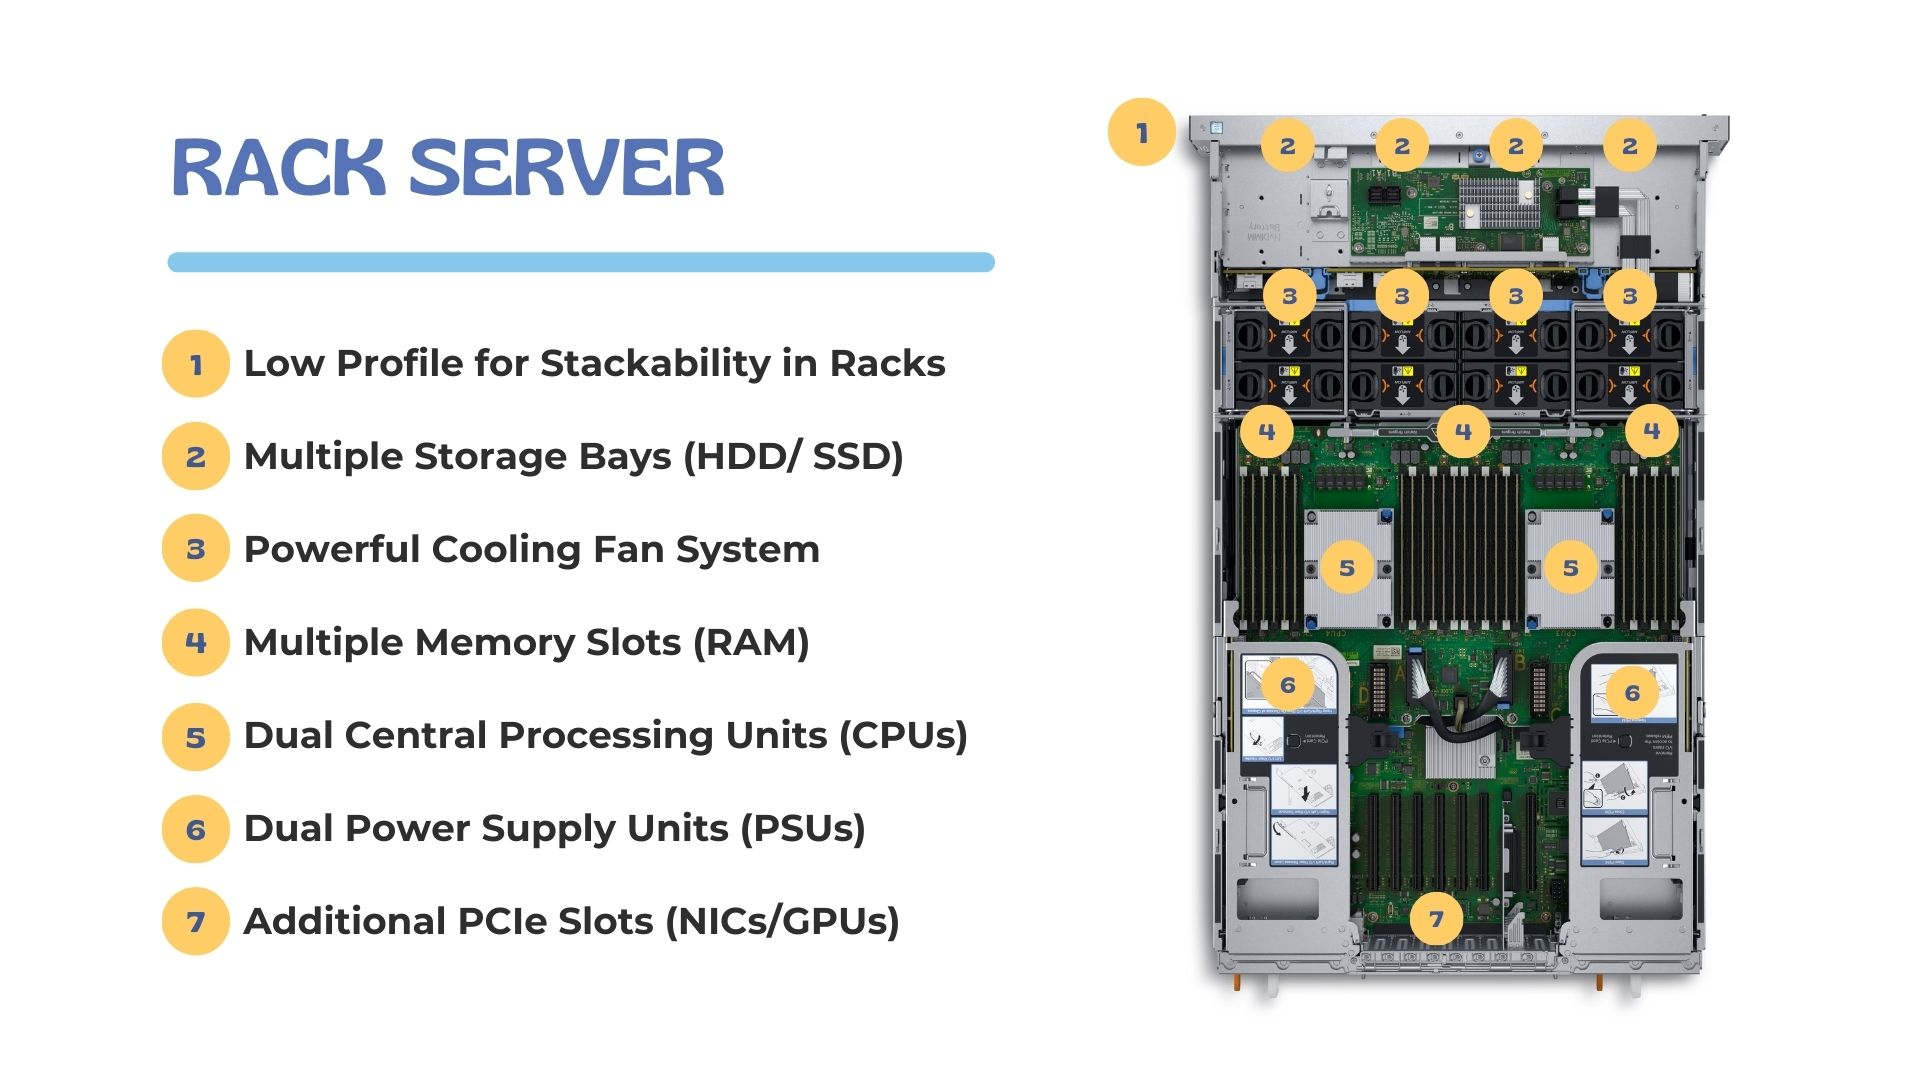
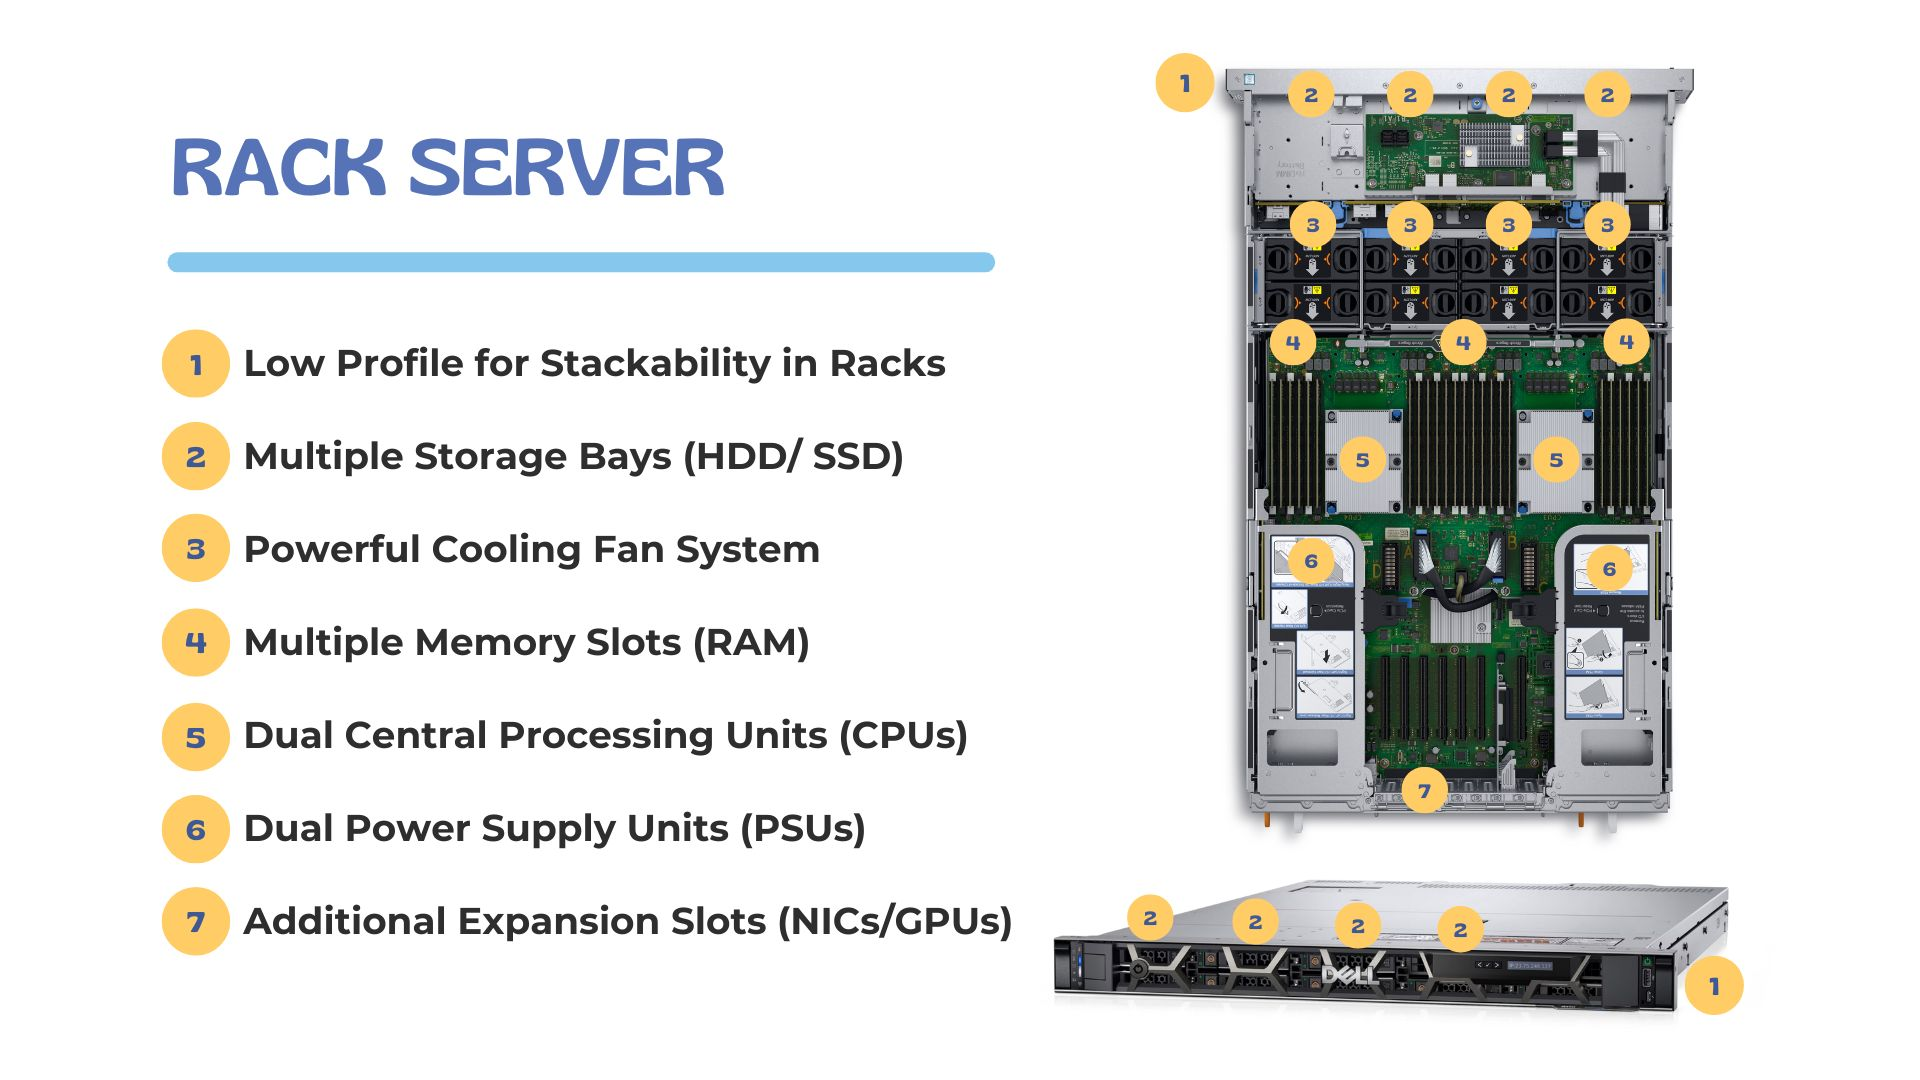
changes to CP-CV01

Changed region(s): [[0.25, 0.0306, 0.9062, 0.9472], [0.0938, 0.6722, 0.125, 0.7028]]

diff --git a/courses/CP-CV01/index.htm b/courses/CP-CV01/index.htm
@@ -174,15 +174,16 @@
             <p>A rack server is a type of computer server designed to be mounted in a standardized server rack. These
               servers are optimized for space efficiency and are commonly used in data centers to maximize the
               utilization of available space.</p>
+            <p>On the right you have two views of the rack server.  A birds-eye view and a front view.</p>
             <p>Here are some key features:</p>
             <ul class="no-bullets">
               <li>1. Low Profile for Stackability.</li>
-              <li>2. Multiple Storage Bays (HDD/ SSD) 160TB.</li>
+              <li>2. Multiple Storage Bays (HDD/ SSD).</li>
               <li>3. Powerful Cooling Fan System.</li>
-              <li>4. Multiple Memory Slots (RAM) 2TB.</li>
-              <li>5. Dual Central Processing Units (CPUs) 256 cores.</li>
+              <li>4. Multiple Memory Slots (RAM).</li>
+              <li>5. Dual Central Processing Units (CPUs).</li>
               <li>6. Dual Power Supply Units (PSUs).</li>
-              <li>7. Additional PCIe Slots (NICs/GPUs).</li>
+              <li>7. Additional Expansion Slots (NICs/GPUs).</li>
             </ul>
           </section>
 
@@ -191,7 +192,7 @@
 
             <b>Hypervisors</b>
             <p>A hypervisor, also known as a virtual machine monitor (VMM), is software that creates and manages virtual
-              machines (VMs). It acts as a bridge between the physical hardware (rack server) and the virtual environment.
+              machines (VM). It acts as a bridge between the physical hardware (rack server) and the virtual environment.
               Essentially, a hypervisor allows multiple operating systems to run concurrently on a single physical
               server.</p>
 
@@ -206,14 +207,14 @@
 
             <b>Virtual Machines</b>
             <p>A virtual machine (VM) is a software-based emulation of a physical computer system. It operates as if it
-              were a standalone machine, with its own operating system, applications, and network configuration. VMs
+              were a standalone machine, with its own operating system, applications, and network configuration. VM
               rely on a hypervisor to function.</p>
 
             <p>Key characteristics of a virtual machine:</p>
             <ul>
-              <li>Isolation: Each VM operates independently, unaffected by other VMs on the same physical host.</li>
-              <li>Portability: VMs can be easily moved between different physical hosts.</li>
-              <li>Efficiency: Resource sharing among VMs can optimize hardware utilization.</li>
+              <li>Isolation: Each VM operates independently, unaffected by other VM on the same physical host.</li>
+              <li>Portability: VM can be easily moved between different physical hosts.</li>
+              <li>Efficiency: Resource sharing among VM can optimize hardware utilization.</li>
             </ul>
 
             <b>Relationship</b>
@@ -231,26 +232,26 @@
           <section id="section8" class="learnsection">
             <h2>Hypervisor Types</h2>
 
-            <p>Hypervisors are software that create and manage virtual machines (VMs). There are two main types of hypervisors: Type 1 and Type 2.</p>
+            <p>Hypervisors are software that create and manage virtual machines (VM). There are two main types of hypervisors: Type 1 and Type 2.</p>
             
             <b>Type 1 Hypervisor</b>
             <p>A Type 1 hypervisor, also known as a bare-metal hypervisor, runs directly on the physical hardware without an underlying operating system. This provides a more efficient and secure environment for virtual machines.</p>
             
             <p>Examples of Type 1 hypervisors:</p>
             <ul>
-            <li>VMware ESXi</li>
-            <li>Microsoft Hyper-V</li>
-            <li>KVM (Kernel-based Virtual Machine)</li>
+            <li>VMware ESX-i.</li>
+            <li>Microsoft Hyper-V.</li>
+            <li>KVM (Kernel-based Virtual Machine).</li>
             </ul>
             
             <b>Type 2 Hypervisor</b>
-            <p>A Type 2 hypervisor runs as a software application on top of an existing operating system. This approach is often simpler to deploy but can have a performance overhead.  You generally don't see this setup in data centers but normally in home or lab environments at small scale.</p>
+            <p>A Type 2 hypervisor runs as a software application on top of an existing operating system. This approach is often simpler to deploy but can have a performance overhead.  You generally see this setup in development or lab environments at small scale.</p>
             
             <p>Examples of Type 2 hypervisors:</p>
             <ul>
-            <li>Oracle VM VirtualBox</li>
-            <li>Parallels Desktop</li>
-            <li>VMWare Workstation</li>
+            <li>Oracle VM VirtualBox.</li>
+            <li>Parallels Desktop.</li>
+            <li>VMWare Workstation.</li>
             </ul>            
           </section>
 
@@ -341,7 +342,7 @@
                 to manage them through clicks and menus.</li>
               <li>Intuitive navigation: Designed for users with varying technical expertise, offering a simplified
                 experience.</li>
-              <li>Common tasks: Creating, starting, stopping, and deleting VMs; managing storage, networks, and
+              <li>Common tasks: Creating, starting, stopping, and deleting VM; managing storage, networks, and
                 security; monitoring resource utilization.</li>
             </ul>
 
@@ -433,7 +434,7 @@
             <p>Rack servers are optimized for space efficiency and are commonly used in data centers. They are designed to fit into server racks, maximizing space utilization.</p>
             
             <b>Hypervisors and Virtual Machines</b>
-            <p>A hypervisor is software that creates and manages virtual machines (VMs). Virtual machines are software-based emulations of physical computers. Hypervisors enable multiple operating systems to run concurrently on a single physical machine.</p>
+            <p>A hypervisor is software that creates and manages virtual machines (VM). Virtual machines are software-based emulations of physical computers. Hypervisors enable multiple operating systems to run concurrently on a single physical machine.</p>
             
             <b>The Cloud and Its Control Plane</b>
             <p>The cloud is a computing model that delivers IT services, such as software, infrastructure, storage, and databases, over the internet. It is built upon virtualization and software-defined resources.</p>

diff --git a/dashboard.htm b/dashboard.htm
@@ -13,7 +13,7 @@
 </head>
 
 <body>
-    <section class="vh-100" style="background-color: #eee;">
+    <section style="background-color: #eee;">
         <div class="container dashboard h-100">
             <div class="row d-flex justify-content-center align-items-center h-100">
                 <div class="col-12">
@@ -27,7 +27,30 @@
                                         Dashboard</p>
                                 </div>
                             </div>
-                            <div class="row justify-content-center">
+                            <div id="CP" class="row justify-content-center roadmap hide">
+                                <div class="justify-content-center program-block">
+                                    <p class="text-center h3 fw-bold mb-4 mx-1 mx-md-4 mt-0" id="title">Cloud Practitioners</p>
+                                    <div class="row justify-content-center">
+                                        <div class="col-12 col-xxl-2 col-xl-3 col-md-4 col-sm-6 col-xs-12">
+                                            <div class="card">
+                                                <img src="img/course/CP-CV01.jpg" class="card-img-top"
+                                                    alt="Computer Hardware">
+                                                <div class="card-body">
+                                                    <h5 class="card-title">What is the Cloud?</h5>
+                                                    <p class="card-text">Learn about the core bluiding blocks of the cloud and how it works.</p>
+                                                    <div class="text-center">
+                                                        <button type="button"
+                                                            class="btn btn-primary align-items-center start-course"
+                                                            id="CP-CV01">Start
+                                                            Learning</button>
+                                                    </div>
+                                                </div>
+                                            </div>
+                                        </div>
+                                    </div>
+                                </div>
+                            </div>
+                            <div class="row justify-content-center roadmap">
                                 <div class="justify-content-center program-block">
                                     <p class="text-center h3 fw-bold mb-4 mx-1 mx-md-4 mt-0" id="title">IT for Beginners
                                     </p>

diff --git a/js/course.js b/js/course.js
@@ -8,7 +8,7 @@ let currentQuestion = 1;
 let prevLock = true;
 let nextLock = false;
 let max = 0;
-let debug = true;
+let debug = false;
 let defaultvoice = 0;
 var lastId;
 let courseCode = getCourseCode();
@@ -29,32 +29,8 @@ function getCourseCode2(){
 }
 
 
-console.log(getCourseCode2());
-console.log(getCourseCode());
-/*
-let imported;
-
-function fetchJSONData() {
-    fetch("data/data.json")
-        .then((res) => {
-            if (!res.ok) {
-                throw new Error
-                    (`HTTP error! Status: ${res.status}`);
-            }
-            return res.json();
-        })
-        .then((data) => {
-            //if (debug) console.log("data: "+JSON.stringify(data));
-            (imported = data);
-        })
-        .catch ((error) =>
-        console.error("Unable to fetch data:", error));
-    }
-fetchJSONData();
-
-if (debug) console.log("learn: "+JSON.stringify(imported));
-*/
-
+if (debug) console.log(getCourseCode2());
+if (debug) console.log(getCourseCode());
 if (debug) console.log("autoplay: " + autoplay);
 
 start();
@@ -89,7 +65,7 @@ document.querySelector("#play").addEventListener("click", () => {
 
 document.querySelector("#stop").addEventListener("click", () => {
     window.speechSynthesis.cancel();
-    console.log(document.cookie);
+    if (debug) console.log(document.cookie);
 })
 
 document.querySelector("#prev").addEventListener("click", () => {
@@ -181,7 +157,7 @@ function updateNav() {
             document.querySelector("#next").classList.remove("disabled");
         }
     } else {
-        console.log("next lock? " + nextLock + " next question? " + checkAnswerCorrect());
+        if (debug) console.log("next lock? " + nextLock + " next question? " + checkAnswerCorrect());
         if (nextLock) {
             document.querySelector("#next").classList.add("disabled");
         } else {
@@ -285,11 +261,11 @@ function removeTags(str) {
         return false;
     else
         str = str.toString();
-    str = str.replaceAll('</li>', '.');
-    str = str.replaceAll('</b>', '.');
-    str = str.replaceAll('</h2>', '.');
-    str = str.replaceAll('</h3>', '.');
-    str = str.replaceAll('</p>', '.');
+    str = str.replaceAll('</li>', '!.');
+    str = str.replaceAll('</b>', '!.');
+    str = str.replaceAll('</h2>', '!.');
+    str = str.replaceAll('</h3>', '!.');
+    str = str.replaceAll('</p>', '!.');
     // Regular expression to identify HTML tags in
     // the input string. Replacing the identified
     // HTML tag with a null string.

diff --git a/js/dashboard.js b/js/dashboard.js
@@ -1,4 +1,4 @@
-let courses = ["B-CH01", "B-OS01", "B-NB01", "B-SA01", "B-CS01"];
+let courses = ["B-CH01", "B-OS01", "B-NB01", "B-SA01", "B-CS01","CP-CV01"];
 let count = courses.length;
 let cidlist = [];
 
@@ -25,7 +25,11 @@ function getCookie(cname) {
 function startUp() {
     courses.forEach(course => {
         cidlist.push(getCookie(course))
-    });    
+    });
+    if(cidlist[4] == "completed") {
+        document.querySelector("#CP").classList.remove("hide");
+    }
+    console.log("course list: "+cidlist);    
 }
 
 startUp();
@@ -67,6 +71,10 @@ document.querySelectorAll(".start-course").forEach(button => {
 
 function checkCourse(id, cid) {
     index = courses.findIndex((element) => element == id);
+    if(cidlist[4] == "completed") {
+        document.querySelector("#CP").classList.remove("hide");
+    }
+    console.log("course list: "+cidlist);
 
     if(index == 0) {
         return true;
@@ -76,27 +84,4 @@ function checkCourse(id, cid) {
     } else {
         return false;
     }
-
-    /*
-    switch (true) {
-        case (id == "B-CH01"):
-            //begin program path
-            return true;
-        case (id == "B-OS01" && cidlist[0] == "completed"):
-            //do something
-            return true;
-        case (id == "B-NB01" && cidlist[0] == "completed" && cidlist[1] == "completed"):
-            //do something
-            return true;
-        case (id == "B-SA01" && cidlist[0] == "completed" && cidlist[1] == "completed" && cidlist[2] == "completed"):
-            //do something
-            return true;
-        case (id == "B-CS01" && cidlist[0] == "completed" && cidlist[1] == "completed" && cidlist[2] == "completed" && cidlist[3] == "completed"):
-                //do something
-                return true;
-    
-        default:
-            return false;
-    }
-    */
 }

diff --git a/css/style.css b/css/style.css
@@ -21,3 +21,11 @@ h5 {
     height: 100%;
     padding: 25px 10px;
 }
+
+.roadmap:not(:first-of-type) {
+    margin-top: 0px;
+}
+
+.hide {
+    display: none;
+}
